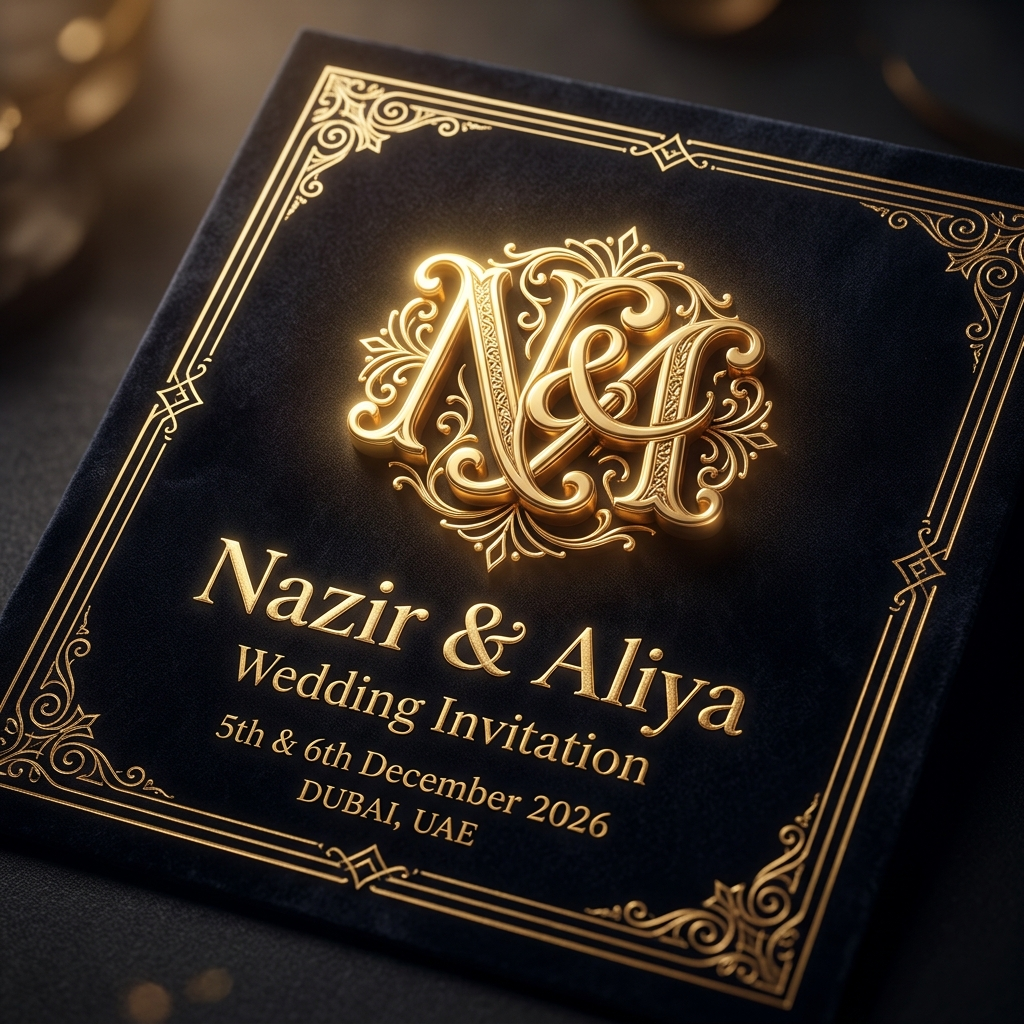
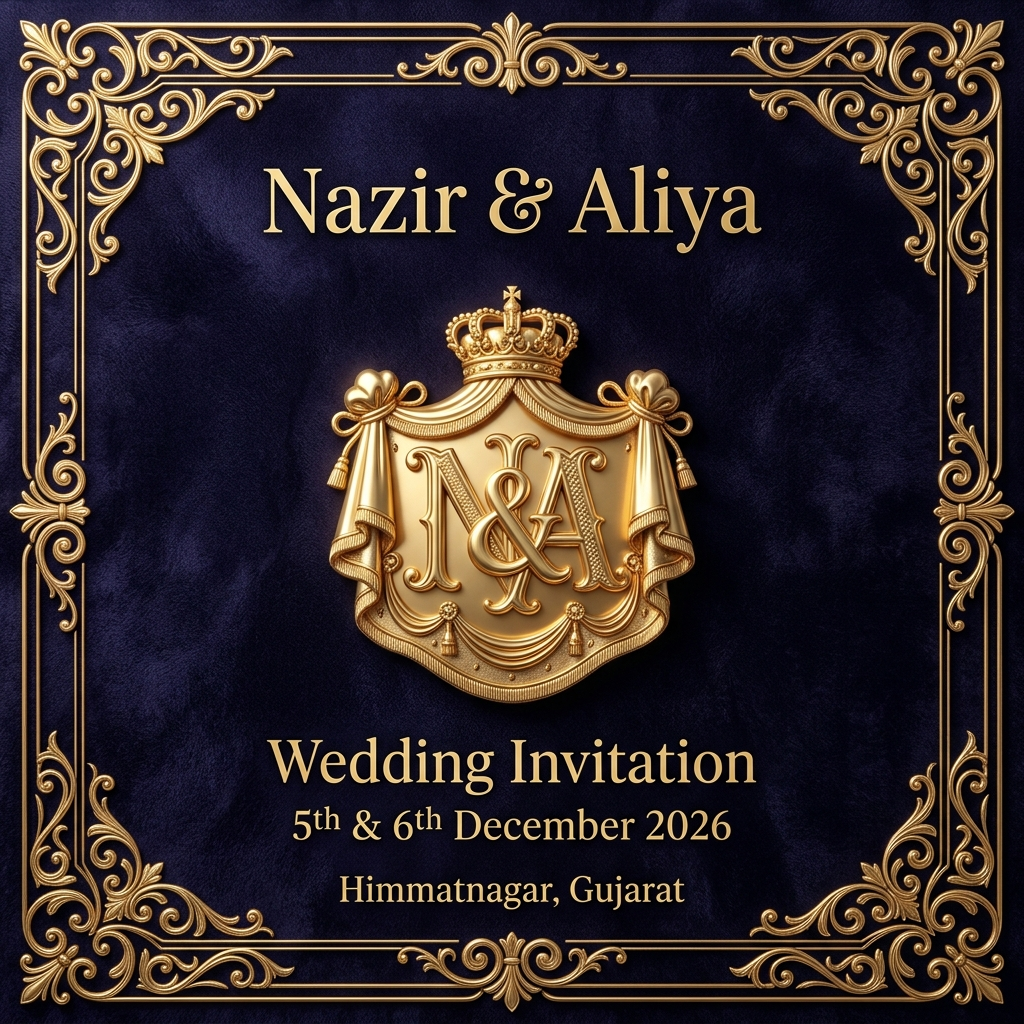
Clean share card image and remove any stray location text

diff --git a/index.html b/index.html
@@ -26,20 +26,20 @@
       property="og:description"
       content="Join us as we begin our journey together. December 5 &amp; 6, 2026 — Himmatnagar, Gujarat."
     />
-    <meta property="og:image" content="https://wedding-invitation.nazir-and-aliya.workers.dev/assets/nazir_aliya_card.png?v=5" />
-    <meta property="og:image:secure_url" content="https://wedding-invitation.nazir-and-aliya.workers.dev/assets/nazir_aliya_card.png?v=5" />
+    <meta property="og:image" content="https://wedding-invitation.nazir-and-aliya.workers.dev/assets/nazir_aliya_card.png?v=6" />
+    <meta property="og:image:secure_url" content="https://wedding-invitation.nazir-and-aliya.workers.dev/assets/nazir_aliya_card.png?v=6" />
     <meta property="og:image:width" content="1200" />
     <meta property="og:image:height" content="630" />
     <meta property="og:image:type" content="image/png" />
 
     <!-- Apple iOS iMessage & Safari link preview fallback -->
-    <link rel="image_src" href="https://wedding-invitation.nazir-and-aliya.workers.dev/assets/nazir_aliya_card.png?v=5" />
+    <link rel="image_src" href="https://wedding-invitation.nazir-and-aliya.workers.dev/assets/nazir_aliya_card.png?v=6" />
 
     <!-- Twitter Card -->
     <meta name="twitter:card" content="summary_large_image" />
     <meta name="twitter:title" content="Nazir &amp; Aliya — Wedding Invitation" />
     <meta name="twitter:description" content="Join us as we begin our journey together. December 5 &amp; 6, 2026 — Himmatnagar, Gujarat." />
-    <meta name="twitter:image" content="https://wedding-invitation.nazir-and-aliya.workers.dev/assets/nazir_aliya_card.png?v=5" />
+    <meta name="twitter:image" content="https://wedding-invitation.nazir-and-aliya.workers.dev/assets/nazir_aliya_card.png?v=6" />
 
     <link rel="icon" type="image/svg+xml" href="/favicon.svg" />
     <link rel="apple-touch-icon" href="/assets/seal.png" />
